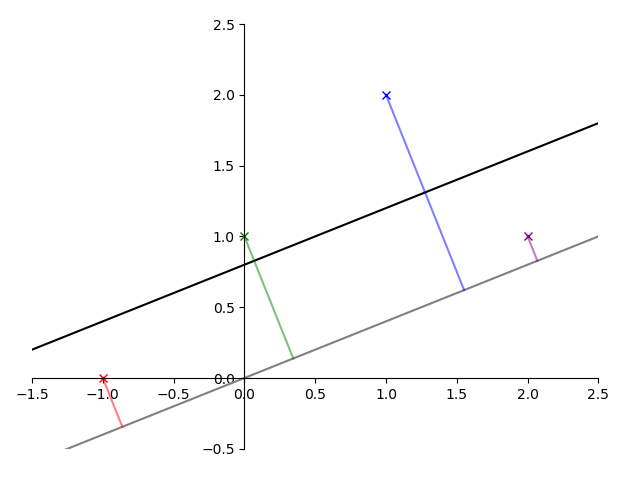
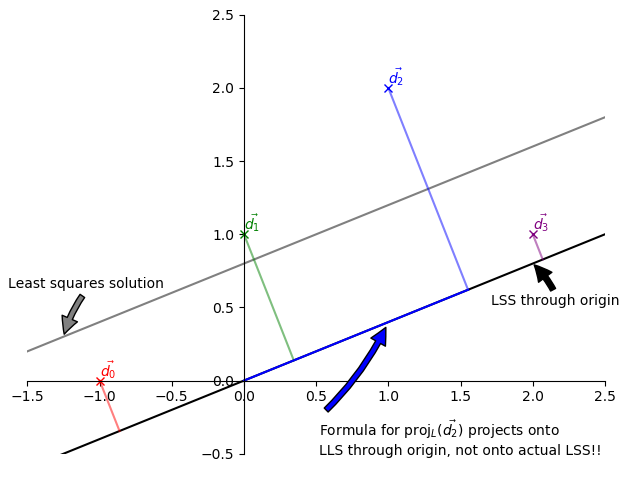
more projection notes adjustments and corrections

diff --git a/src/html/mathsy_stuff/linear_alg.html b/src/html/mathsy_stuff/linear_alg.html
@@ -3384,9 +3384,9 @@ https://math.stackexchange.com/questions/21100/importance-of-matrix-rank
         \textrm{Proj}_L(\vec x)
     $$
 
-    The projection is found by dropping a line, perpendicular to $L$ from the top of $\vec x$. Where this line
+    The projection is found by dropping a line, perpendicular to $L$ from the top of $\vec x$, down to $L$. Where this line
     hits $L$ is the end of the vector that describes the projection. This is shown on the graph by the
-    smaller green vector labelled $\vec x - \textrm{Proj}_L$.
+    smaller green vector labelled $\textrm{Proj}_L$, and the purple line labelled $\vec x - \textrm{Proj}_L$.
 </p>
 <p style="clear:both;">
     Because $\vec x - \textrm{Proj}_L(\vec x)$ is perpendicular to $L$ we can say the following (recall perpendicular vector's dot product is zero):
@@ -3411,8 +3411,14 @@ https://math.stackexchange.com/questions/21100/importance-of-matrix-rank
 
     And we have seen in a previous section how to <a href="#unit-vectors">make a vector a unit vector</a>. Whoopdi do!
 </p>
+<p style="border: 1px solid blue; margin: 10px;">
+    An important point to note - which wasn't immediately obvious to me, but probably should've been in hindsight - is that with this projection-onto-a-line, the <b>line projected onto has to pass through the origin!</b> This is seen in better detail later in the <a href="#lss_projects_onto_line_through_origin">second least squares example</a>.
+</p>
 <p>
-    Turns out that <b>projection is a linear transform</b> (see <a href="#linear-transform-rules">the rules</a>)! To calculate the matrix that describes the projection transform,
+    Turns out that <b>projection is a linear transform</b> (see <a href="#linear-transform-rules">the rules</a>)! (<b>But the line <a href="https://math.stackexchange.com/questions/2397750/orthogonal-projection-of-point-onto-line-not-through-origin/2398320#2398320" target="_blank">must pass through the origin</a>!</b>).
+</p>
+<p>
+    To calculate the matrix that describes the projection transform,
     apply the projection to each of the column vectors of the identity matrix where the column vectors of $I$ are the same
     length as the vector over which the projection is applied. So, for example, vectors in $\mathbb{R}^n$ to get the transformation
     matrix $A$ for a projection onto a line defined by the vector $\hat u$:
@@ -3842,6 +3848,7 @@ So this must relate projection to change of basis too!! Aaaarg... brain melty
     </p>
 
     <h4> </h4>
+    <a id="lss_projects_onto_line_through_origin"></a>
     <p>WOAH, in trying to do one of the graphs I've found our that the projection formula from the previous section only really makes sense
     if the line passes through the origin as a line defined by a vector (with no yintercept) has to pass through origin.</p>
     <p>
@@ -3857,6 +3864,16 @@ So this must relate projection to change of basis too!! Aaaarg... brain melty
         <a href="##IMG_DIR##/draw_least_squares_example.py" target="_blank" style="font-size:75%;">&lt;View source&gt;</a>.
     </p>
 
+</div>
+
+<h2>Affine Transforms</h2>
+<div>
+<p>
+    https://www.cs.utexas.edu/users/fussell/courses/cs384g-fall2011/lectures/lecture07-Affine.pdf
+</p>
+<p>
+    https://www.youtube.com/watch?v=2Snoepcmi9U
+</p>
 </div>
 
 <h2>Change Of Basis</h2>

diff --git a/src/images/jeh-tech/draw_least_sqaures_example.py b/src/images/jeh-tech/draw_least_sqaures_example.py
@@ -115,38 +115,35 @@ lss_yintercept = np.array([0, 4./5.])
 ## Build projection of each data point vector onto LSS
 projections = []
 for dp in data_points:
-    projections.append(proj_x_onto_L(dp, lss_vec))
+    projections.append(proj_x_onto_L(dp, lss_vec))    
 
 ##
 ## Plot the data points
-for dp, c in zip(data_points, colours):
+for i, (dp, c) in enumerate(zip(data_points, colours)):
     ax.plot(dp[0], dp[1], 'x', color=c)
-    #ax.plot([0, dp[0]], [0, dp[1]], color=c)
+    ax.text(dp[0], dp[1] + 0.03, '$\\vec{{d_{}}}$'.format(i), color=c)
 
 ##
 ## Plot the least squares solution line
-lss_line = plot_line_plane(lss_vec, lss_yintercept[1], color='black')
-lss_line = plot_line_plane(lss_vec, 0, color='gray')
+lss_line = plot_line_plane(lss_vec, lss_yintercept[1], color='grey')
+lss_line_through_origin = plot_line_plane(lss_vec, 0, color='black')
 
 
 ##
-## Plot the projections
+## Plot the projections - and here we see that the projections are onto the line
+## passing through the origin, because to project onto a vector, it must pass through
+## the origin because if L = c \vec{v}, for all real c's, when c is zero, it passes
+## through origin.
+orthogs = []
 for dp, p, c in zip(data_points, projections, colours):
-    #plot_vec(p, [0,0], color=c, alpha=0.5)
-    plot_vec(p - dp, dp, color=c, alpha=0.5)
-    #plot_vec(p - dp, dp + lss_yintercept, color=c, alpha=0.5)
+    l = plot_vec(p - dp, dp, color=c, alpha=0.5)
+    orthogs.append(l)
 
-##
-## Plot em!
-# projectee = plot_vec(vec, [0,4./5.], 'b')
-# projected = plot_vec(vec_proj_to_lss, [0,4./5.], 'g', alpha=0.5)
-# orthog = plot_vec(vec-vec_proj_to_lss, vec_proj_to_lss + np.array([0,4./5.]), 'purple')
-# plane = plot_line_plane(lss, 4./5., color="black", alpha=0.3)
+p2 = plot_vec(projections[2], [0, 0], color=colours[2], alpha=1.)
 
-# annotate_line(plane, -1.25, r'$L = \{c\vec v + \vec b\ \|\ c \in \mathrm{R}\}$', (30, 35))
-# annotate_line(projectee, 0.5, r'$\vec x$', (-30, 30))
-# annotate_line(projected, 0.5, r'$\mathrm{proj}_L(\vec x)$', (-30, -40))
-# annotate_line(orthog, 1.1, r'$\vec x - \mathrm{proj}_L(\vec x)$', (30, 20))
+annotate_line(lss_line, -1.25, r'Least squares solution', (-40, 35))
+annotate_line(lss_line_through_origin, 2, 'LSS through origin', (-30, -30))
+annotate_line(p2, 1., 'Formula for $\\mathrm{{proj}}_L(\\vec{{d_2}})$ projects onto\nLLS through origin, not onto actual LSS!!', (-50, -95))
 
 fig.show()
 pl.show()

diff --git a/src/images/jeh-tech/draw_projection_general.py b/src/images/jeh-tech/draw_projection_general.py
@@ -87,7 +87,7 @@ def annotate_line(line, annotate_at_x, annotate_txt, xytext):
 ## leave enough room to make figure look "good"
 fig, ax = pl.subplots()
 ax.set_xlim([-1.5, 1.5])
-ax.set_ylim([-0.5, 2.5])
+ax.set_ylim([-1.5, 1.5])
 ax.spines['left'].set_position('zero')
 ax.spines['bottom'].set_position('zero')
 ax.spines['top'].set_color('none')
@@ -101,14 +101,15 @@ vec_proj_to_lss = proj_x_onto_L(vec, lss) ##< Projection of vec onto L = {a * ls
 
 ##
 ## Plot em!
-projectee = plot_vec(vec, [0,4./5.], 'b')
-projected = plot_vec(vec_proj_to_lss, [0,4./5.], 'g', alpha=0.5)
-orthog = plot_vec(vec-vec_proj_to_lss, vec_proj_to_lss + np.array([0,4./5.]), 'purple')
-plane = plot_line_plane(lss, 4./5., color="black", alpha=0.3)
+zero = np.array([0, 0])
+projectee = plot_vec(vec, zero, 'b')
+projected = plot_vec(vec_proj_to_lss, zero, 'g', alpha=0.5)
+orthog = plot_vec(vec-vec_proj_to_lss, vec_proj_to_lss, 'purple')
+plane = plot_line_plane(lss, 0, color="black", alpha=0.3)
 
-annotate_line(plane, -1.25, r'$L = \{c\vec v + \vec b\ \|\ c \in \mathrm{R}\}$', (30, 35))
-annotate_line(projectee, 0.5, r'$\vec x$', (-30, 30))
-annotate_line(projected, 0.5, r'$\mathrm{proj}_L(\vec x)$', (-30, -40))
+annotate_line(plane, -1.25, r'$L = \{c\vec v\ \|\ c \in \mathrm{R}\}$', (30, -35))
+annotate_line(projectee, 0.5, r'$\vec x$', (-20, 20))
+annotate_line(projected, 0.5, r'$\mathrm{proj}_L(\vec x)$', (-30, -50))
 annotate_line(orthog, 1.1, r'$\vec x - \mathrm{proj}_L(\vec x)$', (30, 20))
 
 fig.show()
